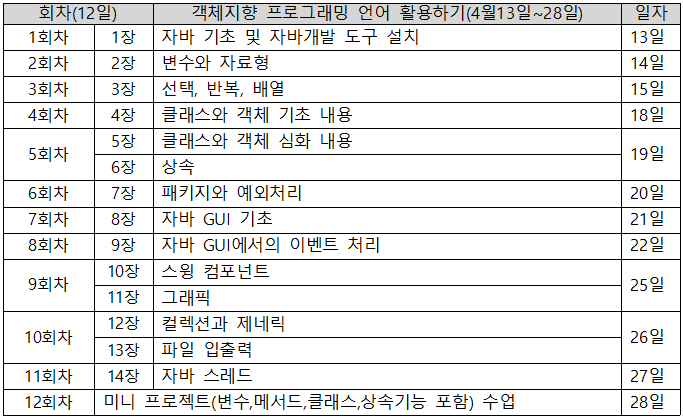
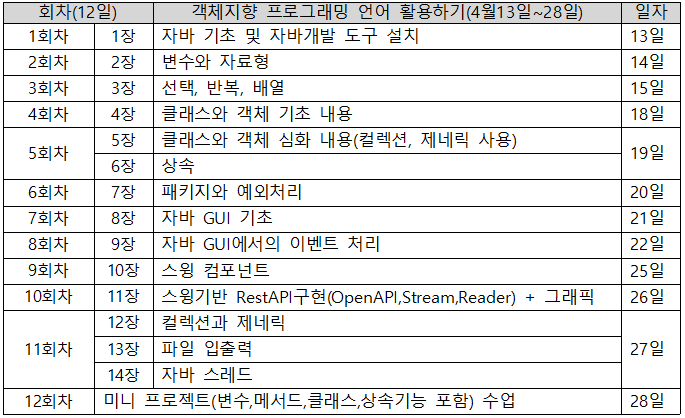
강의 내용 정리

Changed region(s): [[0.0, 0.0, 1.0, 0.9952]]

diff --git a/README.md b/README.md
@@ -18,6 +18,8 @@
 - 그래서, 8장~14장(7일)은 빠르게 진행하고 추가로 시간 여유가 있다면 아래 소스도 진행 할 수도 있다.
 - [자바리뷰학습자료 강의용소스 링크](https://github.com/miniplugin/ezen/tree/main/src/basic)
 - [구름 코딩테스트 링크 응시환경 체험하기](https://devth.goorm.io/)
+- 10장 그래픽스 클래스에 사용되는 기초지식 아래
+- ![10장 그래픽스 클래스에 사용되는 기초지식](./README/graphics.png)
 - [13장 버퍼와 파일업로드 웹에서 사용하는 곳](https://github.com/kimilguk/kimilguk-boot2/blob/boot14_03/src/main/java/com/herokuapp/kimilgukboot2/util/FileUtilsApi.java)
 - [14장의 동시작업의 문제점 웹에서 보완하는 방법:트랜잭션사용](https://github.com/miniplugin/kimilguk-spring5/blob/master/src/main/java/com/edu/service/BoardServiceImpl.java)
 - [14장의 싱크로나이즈 동기화 웹에서 사용하는 곳](https://github.com/kimilguk/kimilguk-boot2/blob/boot14_03/src/main/resources/static/js/app/index.js)
